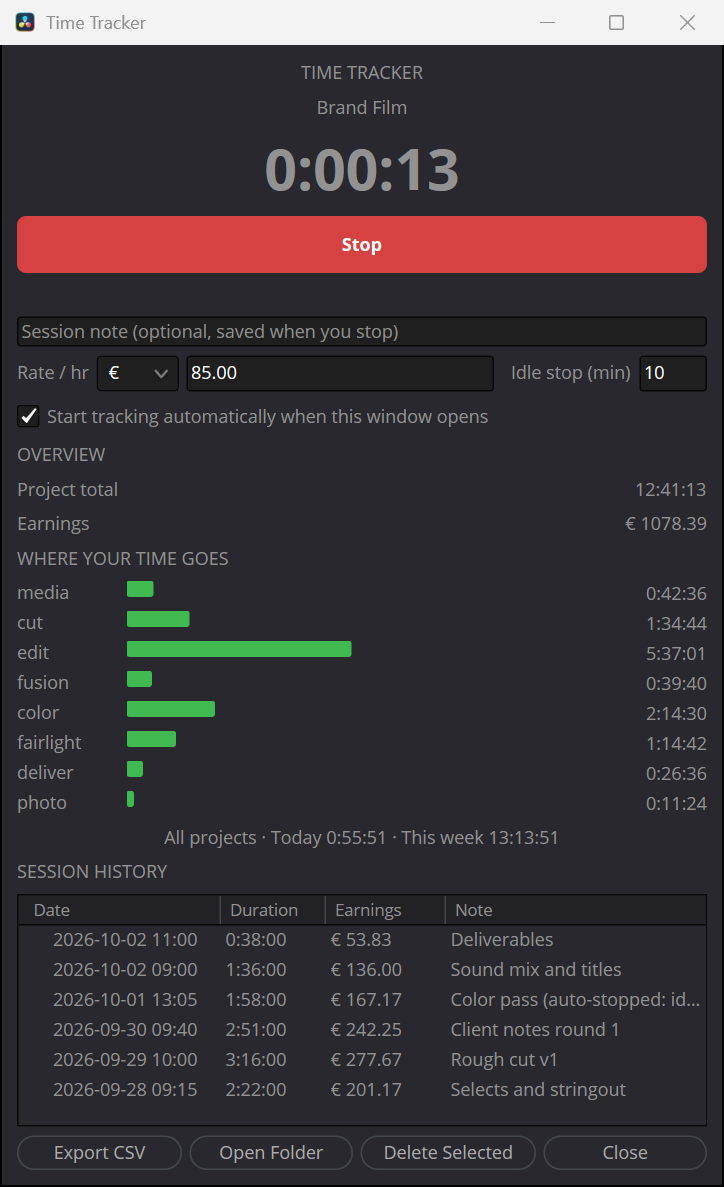
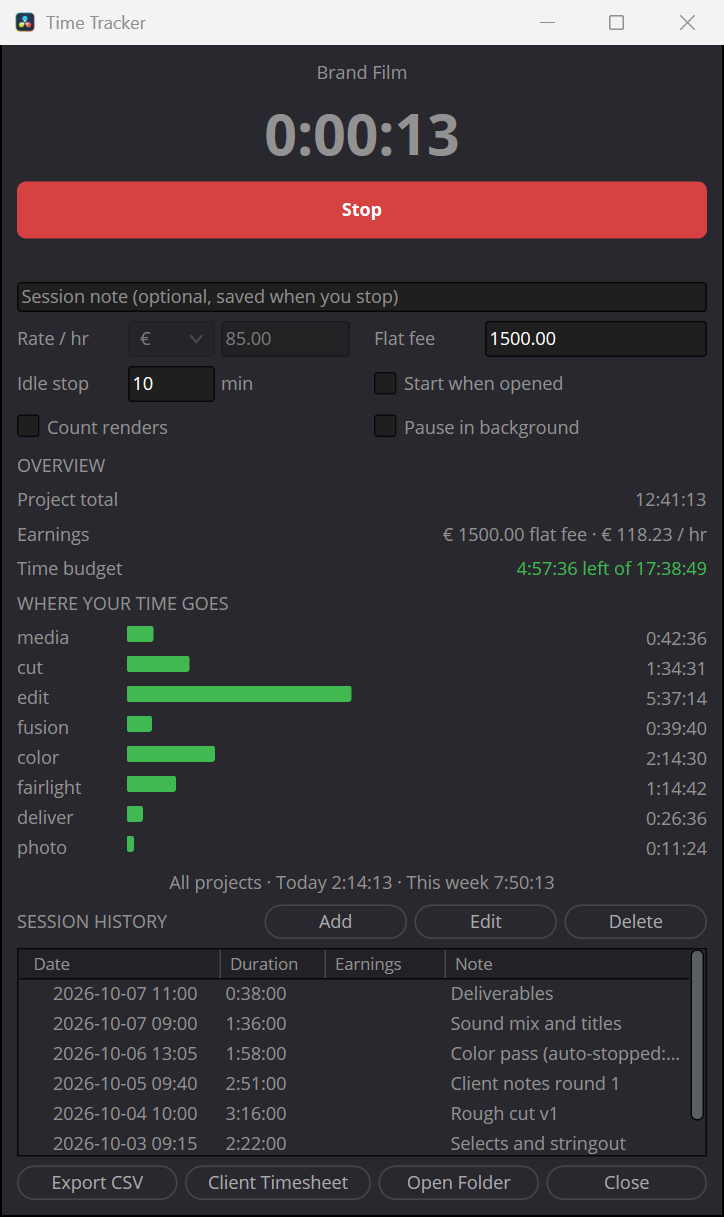
README and screenshots for 1.1.0
What's new, flat-fee usage, adding/editing time, exports with the client
timesheet, and an honest compatibility table: the core tracker and idle stop
are marked compatible on macOS (idle via CoreGraphics) and Linux (no idle
stop yet); background pause and auto-open are Windows-only for now; macOS,
Linux and the free Resolve are verified by the per-platform test simulation,
not yet on real machines.

Screenshots retaken from clean demo data with the new form: flat-fee
overview, running session, entry editor, client timesheet (headless Chrome).
Checked: no em dashes, no personal data in tracked files.

diff --git a/README.md b/README.md
@@ -6,13 +6,25 @@ nothing to sign up for. Your data stays on your computer.
 
 It knows which project is open, which page you're working on, and when you've
 walked away from the keyboard, so your timesheet reflects real work instead of a
-guess. When the job is done, one click exports an invoice-ready spreadsheet.
+guess. For flat-fee jobs it tells you how much time you have left before the job
+stops paying your rate. When the job is done, one click gives you an
+invoice-ready spreadsheet or a clean timesheet for the client.
 
 <p align="center">
-  <img src="docs/tracker-stopped.png" width="380" alt="Time Tracker window, stopped, showing project totals, per-page time bars and session history">
+  <img src="docs/tracker-stopped.png" width="380" alt="Time Tracker window for a flat-fee project: earnings, effective hourly rate, time budget left, time per page and session history">
   &nbsp;&nbsp;
-  <img src="docs/tracker-running.png" width="380" alt="Time Tracker window while tracking, with the red Stop button">
+  <img src="docs/tracker-running.png" width="380" alt="Time Tracker window while tracking, with the red Stop button and the rate fields locked">
 </p>
+
+## What's new in 1.1
+
+- **Flat-fee projects** with a live time budget and your effective hourly rate.
+- **Client timesheet**: hours and notes without your rates, ready to print to PDF.
+- **Add and edit entries**: log a client call, fix a session you forgot to stop.
+- **Count renders** and **pause while Resolve is in the background** (options).
+- **Opens with Resolve** on Windows, and each project remembers its own rate.
+- Fixed: closing Resolve with the tracker open could leave Resolve running
+  without a window, which stopped it from opening again.
 
 ## Features
 
@@ -24,19 +36,31 @@ guess. When the job is done, one click exports an invoice-ready spreadsheet.
   step away longer than your idle limit (default 10 minutes), the session is
   closed at your *last real input*, so coffee breaks never land on the invoice.
   Tracking resumes on its own when you're back.
-- **Opens with Resolve (optional, Windows).** The tracker can pop up on its own
-  whenever you open a project. Tick **Start tracking automatically** too and
-  there's nothing left to remember.
+- **Flat-fee projects.** Enter a fixed price for the project and the tracker
+  turns your hourly rate into a target: it shows how much time is left before
+  the fee stops paying that rate (green, amber from 80%, red when over) and what
+  you are actually earning per hour so far. Great for spotting scope creep early.
 - **Rates and earnings.** Hourly rate plus currency, remembered per project, so
   switching between clients brings back each client's rate. Each session keeps
   the rate it was tracked at, so changing your rate mid-project bills every hour
   correctly. Different currencies are totalled separately, never converted.
-- **Invoice-ready CSV export.** Exports every project at once, grouped by
-  project with each day's sessions stacked underneath, a subtotal per project,
-  and a grand total. Per-page time columns at every level. Opens correctly in
-  Excel, Numbers, LibreOffice and Google Sheets.
-- **Crash-safe.** The running session is saved every second. If Resolve
-  crashes, the session is recovered the next time you open the tracker.
+- **Count renders (option).** Keep counting while Resolve renders, even when
+  you've stepped away. Idle time only starts once the render ends.
+- **Pause in background (option, Windows).** Time spent in other apps isn't
+  counted; the session carries on when you switch back to Resolve.
+- **Add and edit entries.** Add time you worked outside Resolve, or correct a
+  session's date, time, duration, rate or note. Changes are marked in your own
+  export so your records stay honest.
+- **Invoice-ready CSV export.** Every project at once, grouped by project with
+  each day's sessions stacked underneath, a subtotal per project and a grand
+  total. Per-page time columns at every level.
+- **Client timesheet.** One project's dates, times, durations and notes, with a
+  time-by-stage summary and no rates or money, as a printable page and a CSV.
+- **Opens with Resolve (optional, Windows).** The tracker can pop up by itself
+  whenever you open a project. Tick **Start when opened** too and there's
+  nothing left to remember.
+- **Crash-safe.** The running session is saved every second and recovered if
+  something stops the tracker unexpectedly.
 - **Safe history.** Saves never overwrite good data with a half-written file,
   and deleting a session takes a confirming second click.
 - **One window only.** Opening the script again brings the existing window to
@@ -130,18 +154,17 @@ External scripting using** set to **Local**. Be aware that this Resolve setting
 lets any program running on your computer control Resolve through its scripting
 API (never other computers; that would be the *Network* option). Leave it off if
 you don't want that; the tracker still works from the Scripts menu without it.
-If the tracker doesn't appear, the
-helper's log at `%LOCALAPPDATA%\ResolveTimeTracker\autostart.log` says why. The
-helper shows up as *Time Tracker for DaVinci Resolve* in Task Manager's Startup
-apps.
+If the tracker doesn't appear, the helper's log at
+`%LOCALAPPDATA%\ResolveTimeTracker\autostart.log` says why. The helper shows up
+as *Time Tracker for DaVinci Resolve* in Task Manager's Startup apps.
 
-To have tracking start the moment the window appears, also tick **Start tracking
-automatically when this window opens** in the tracker.
+To have tracking start the moment the window appears, also tick **Start when
+opened** in the tracker.
 
 ### Updating and uninstalling
 
 - **Update:** close the tracker window, replace `Time Tracker.lua` (or rerun
-  `install.ps1`), then reopen it. Your tracked time is kept.
+  `install.ps1`), then reopen it. Your tracked time and settings are kept.
 - **Uninstall:** run `install.ps1 -RemoveAutostart` if you turned auto-open on,
   then delete `Time Tracker.lua` from the `Utility` folder. Your tracked time
   stays in the data folder (see below) until you delete that too.
@@ -149,29 +172,61 @@ automatically when this window opens** in the tracker.
 ## Using it
 
 1. Open a project, then **Workspace > Scripts > Time Tracker**.
-2. Set your hourly rate, currency and idle limit once. They're remembered.
+2. Set your hourly rate and currency (remembered per project) and the idle
+   limit. Hover any field or option for an explanation.
 3. Press **Start** (blue). The button turns red while tracking; press **Stop**
    when you're done. Add an optional note first and it's saved with the session.
 4. Leave the window open while you work. It can sit behind Resolve; opening the
    script again brings it back to the front.
-5. Press **Export CSV** for a spreadsheet, and **Open Folder** to find it.
 
 Set **Idle stop** to `0` to turn idle detection off.
 
-### What the export looks like
+### Flat-fee jobs
+
+Type the agreed price into **Flat fee**. The overview then shows the fee and
+your effective hourly rate (fee divided by the hours worked so far), and
+**Time budget** shows how much time is left before the job drops below your
+hourly rate. Clear the field to bill the project hourly again.
+
+### Adding and correcting time
+
+Press **Add** to log time you worked outside Resolve, such as a client call or
+a review session. Select a session and press **Edit** to change its date, start,
+duration, rate or note, or **Delete** (twice) to remove it.
+
+<p align="center">
+  <img src="docs/entry-editor.png" width="380" alt="The entry editor: date, start, duration, rate and note fields with Save and Cancel">
+</p>
+
+### Exports
+
+- **Export CSV**: all projects with rates and earnings, for your own records
+  and invoicing. Edited and manually added sessions are marked in the notes.
+- **Client Timesheet**: the open project's sessions, hours and notes, without
+  rates or money. It opens in your browser; print it and choose *Save as PDF*.
+  A matching CSV is saved next to it.
+- **Open Folder** shows where the files are.
+
+<p align="center">
+  <img src="docs/client-timesheet.png" width="560" alt="A client timesheet: dates, times, durations and notes with a total, and time by stage">
+</p>
+
+### What the CSV export looks like
 
 ```text
 Project,Date,Start,End,Duration,Hours,Rate,Currency,Earnings,Note,Media Time,Cut Time,Edit Time,...
-Brand Film,2026-09-28,09:15,11:37,2:22:00,2.3667,85.00,€,201.17,Selects and stringout,0:42:36,1:11:00,0:28:24,...
-Brand Film,2026-09-29,10:00,13:16,3:16:00,3.2667,85.00,€,277.67,Rough cut v1,,0:23:31,2:36:49,...
-Brand Film,2026-10-01,13:05,15:03,1:58:00,1.9667,85.00,€,167.17,Color pass (auto-stopped: idle),,,0:17:42,...
-Brand Film (subtotal),,,,12:41:00,12.6833,,€,1078.08,,0:42:36,1:34:31,5:37:01,...
+Brand Film,2026-09-28,09:15,11:37,2:22:00,2.3667,85.00,€,,Selects and stringout,0:42:36,1:11:00,0:28:24,...
+Brand Film,2026-09-29,10:00,13:16,3:16:00,3.2667,85.00,€,,Rough cut v1,,0:23:31,2:36:49,...
+Brand Film (subtotal),,,,12:41:00,12.6833,,€,1500.00,Flat fee. Effective rate € 118.27 / hr,0:42:36,...
 
 Podcast Ep. 42,2026-09-29,15:30,16:34,1:04:00,1.0667,70.00,€,74.67,Multicam sync,0:12:48,,0:44:48,...
 Podcast Ep. 42 (subtotal),,,,1:51:00,1.8500,,€,129.50,,0:12:48,,0:44:48,...
 
-TOTAL (all projects),,,,14:32:00,14.5333,,€,1207.58,,0:55:24,1:34:31,6:21:49,...
+TOTAL (all projects),,,,14:32:00,14.5333,,€,1629.50,,0:55:24,1:34:31,6:21:49,...
 ```
+
+Here Brand Film is a flat-fee project (its sessions have no earnings of their
+own; the subtotal carries the fee) and Podcast Ep. 42 is billed hourly.
 
 The file is comma-separated UTF-8. If your Excel uses a semicolon list
 separator (common in Europe) and shows everything in one column, use
@@ -185,12 +240,13 @@ Everything is stored locally in a hidden folder in your home directory,
 
 | File | Purpose |
 |---|---|
-| `settings.lua` | rate, currency, idle limit, auto-start |
+| `settings.lua` | rate, currency, idle limit, options; per project: rate, currency, flat fee |
 | `sessions.lua` | all completed sessions |
 | `live.lua` | the running session, rewritten every second (crash recovery) |
 | `instance.lock` | heartbeat of the open window (single-instance check) |
 | `*.lua.bak` | previous version of each file, kept during saves |
-| `Time_Tracker_*.csv` | your exports |
+| `Time_Tracker_*.csv` | full exports |
+| `Timesheet_*.html`, `Timesheet_*.csv` | client timesheets |
 
 To back up or move your history, copy the whole folder. If a save ever fails
 (for example a full disk), the tracker keeps the session, tells you which file
@@ -199,14 +255,14 @@ failed, and retries every second.
 ## Good to know
 
 - The tracker counts time while its window is open. With auto-open and
-  auto-start on, opening a project is all it takes.
+  **Start when opened** on, opening a project is all it takes.
 - Quitting Resolve while tracking is fine: the session is saved as Resolve
   closes. If something stops the tracker unexpectedly instead (a crash, power
   loss, a file locked during the save), the session is recovered the next time
   the tracker opens and marked `(recovered after an unexpected stop)`.
 - Idle detection reads system-wide input through Resolve's built-in LuaJIT
   (`GetLastInputInfo` on Windows, `CGEventSourceSecondsSinceLastEventType` on
-  macOS). On other systems the tracker still works but won't auto-stop.
+  macOS). Without it the tracker still works; it just won't stop on its own.
 - Projects are grouped by name. Two projects with the same name share a total,
   and renaming a project starts a new group.
 - Time comes from the system clock. Manually changing the clock while tracking
@@ -214,10 +270,23 @@ failed, and retries every second.
 
 ## Compatibility
 
-Developed and tested with **DaVinci Resolve Studio 21 on Windows 11**. It only
-uses features available to scripts in the Workspace > Scripts menu, so the
-free version of Resolve, macOS and Linux are expected to work, but they haven't
-been tested yet. If you try it there, please open an issue and say how it went.
+The tracker is one Lua script that uses Resolve's own scripting API, so the
+same file runs on every platform Resolve supports. A few extras rely on
+operating-system features:
+
+| | Windows | macOS | Linux |
+|---|---|---|---|
+| Tracking, pages, rates, flat fees, editing, exports | Yes | Yes | Yes |
+| Idle stop with rewind | Yes | Yes | Not yet |
+| Pause in background | Yes | Not yet | Not yet |
+| Open automatically with Resolve | Yes (Studio) | Not yet | Not yet |
+
+How it's verified: on Windows, every feature has been run in DaVinci Resolve
+Studio 21. The automated test suite runs every test three times, as Windows,
+macOS and Linux, simulating each platform's file paths, home folder and native
+idle APIs. macOS and Linux have not yet been run on a real machine, and neither
+has the free version of Resolve. If you use it there, please open an issue and
+say how it went.
 
 ## Development
 
@@ -225,8 +294,8 @@ The tests run through Resolve's bundled script interpreter, `fuscript`
 (Windows: `C:\Program Files\Blackmagic Design\DaVinci Resolve\fuscript.exe`).
 
 - `test/regression_test.lua` runs the complete script against a fake UI, clock,
-  idle API and in-memory disk. It doesn't need Resolve running and never touches
-  real data:
+  idle API and in-memory disk, once per platform (Windows, macOS, Linux). It
+  doesn't need Resolve running and never touches real data:
 
   ```
   fuscript -l lua test/regression_test.lua
@@ -240,7 +309,10 @@ These integration checks need Resolve running with a project open:
 - `TT_EXPORT_TEST=1` builds the window, exports the sessions on disk and exits.
 
 Both self-tests require `TT_DATA_DIR` pointing at a disposable folder and
-refuse to run without it, so they can't touch your real history.
+refuse to run without it, so they can't touch your real history. To try the
+real window on test data, start Resolve with `TT_DATA_DIR` set in its
+environment; a separate script can drive it through
+`UIManager:FindWindow('ttwin'):GetItems()`.
 
 Release zip: build it with `tar -a -c -f <name>.zip` (Windows PowerShell 5.1's
 `Compress-Archive` writes backslash paths that break unzip on macOS) and include
@@ -258,7 +330,10 @@ Things worth knowing if you hack on it:
 - When Resolve quits it closes every script window. Never call into the window
   after that (`Hide()`, redraws): Resolve then abandons the quit and lingers
   without a window, which blocks reopening it. A script window also needs a
-  `Close` handler that exits its loop, or Resolve waits for it forever.
+  `Close` handler that exits its loop, or Resolve waits for it forever. Other
+  windows of the same script are torn down without a `Close` event.
+- Hidden widgets keep their space in Fusion layouts (`Visible = false` does not
+  collapse a row), so design rows that are always shown.
 - Menu scripts run in a child `fuscript -q -l Lua -a <port>` process.
   `Fusion:RunScript(path)` from an external client launches a script the same
   way; the auto-open helper relies on that.
